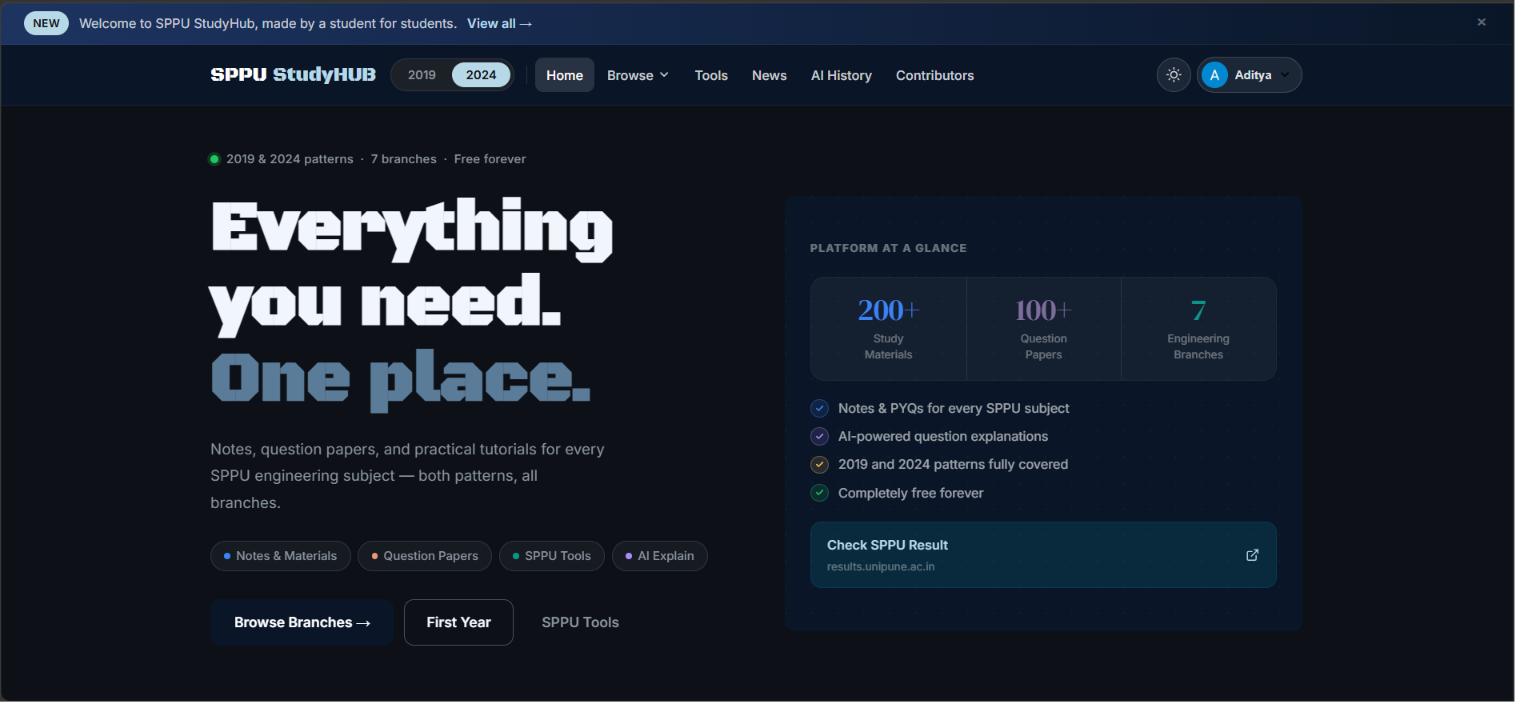
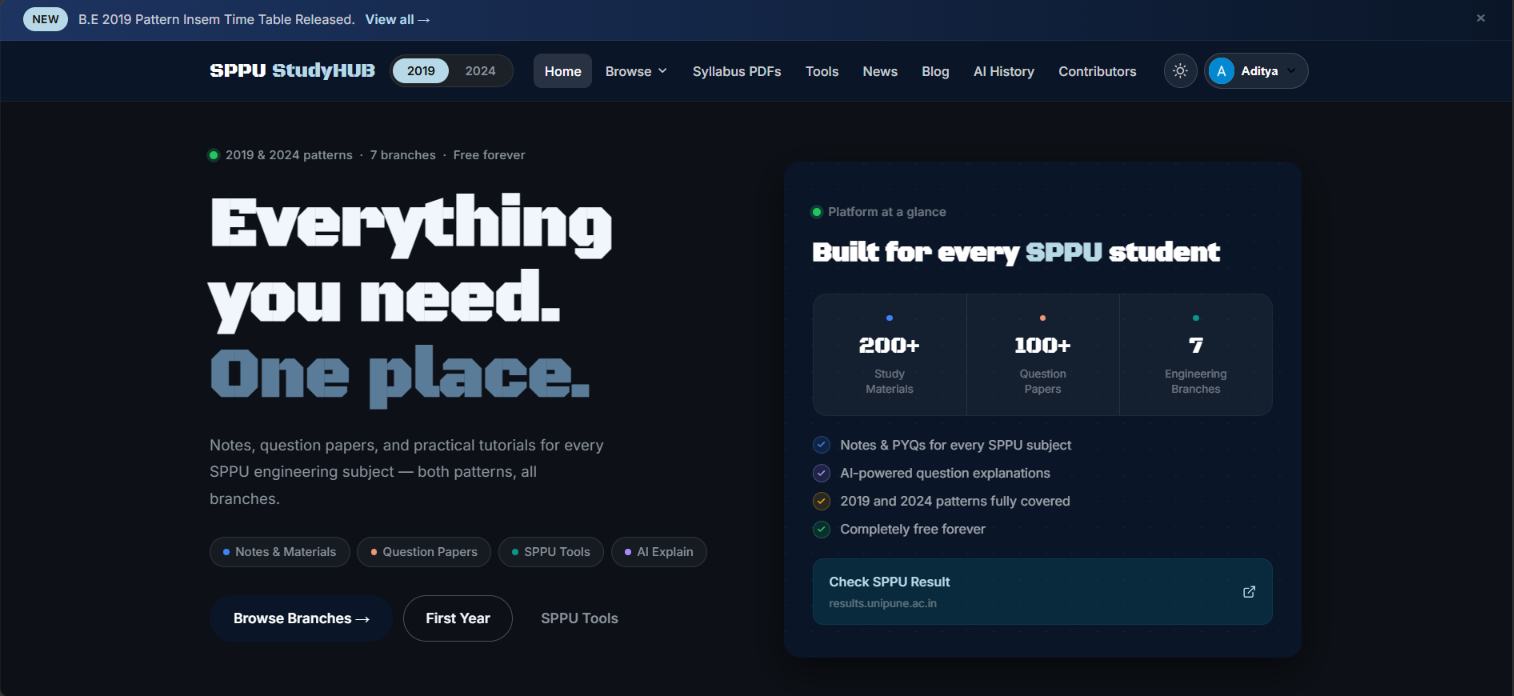
updated sppustudyhub image and project window

diff --git a/index.html b/index.html
@@ -510,10 +510,9 @@
 
       .proj-img {
         position: relative;
-        height: 220px;
+        height: 322px;
         overflow: hidden;
         flex-shrink: 0;
-        filter: grayscale(0.4) brightness(0.85);
       }
       .proj-img img {
         width: 100%;
@@ -523,12 +522,12 @@
           transform 0.45s ease,
           filter 0.3s ease;
       }
-      .project-card:hover .proj-img img {
+      /* .project-card:hover .proj-img img {
         transform: scale(1.03);
       }
       .project-card:hover .proj-img {
         filter: grayscale(0) brightness(1);
-      }
+      } */
 
       .proj-body {
         padding: 1.5rem 1.5rem 1.1rem;
